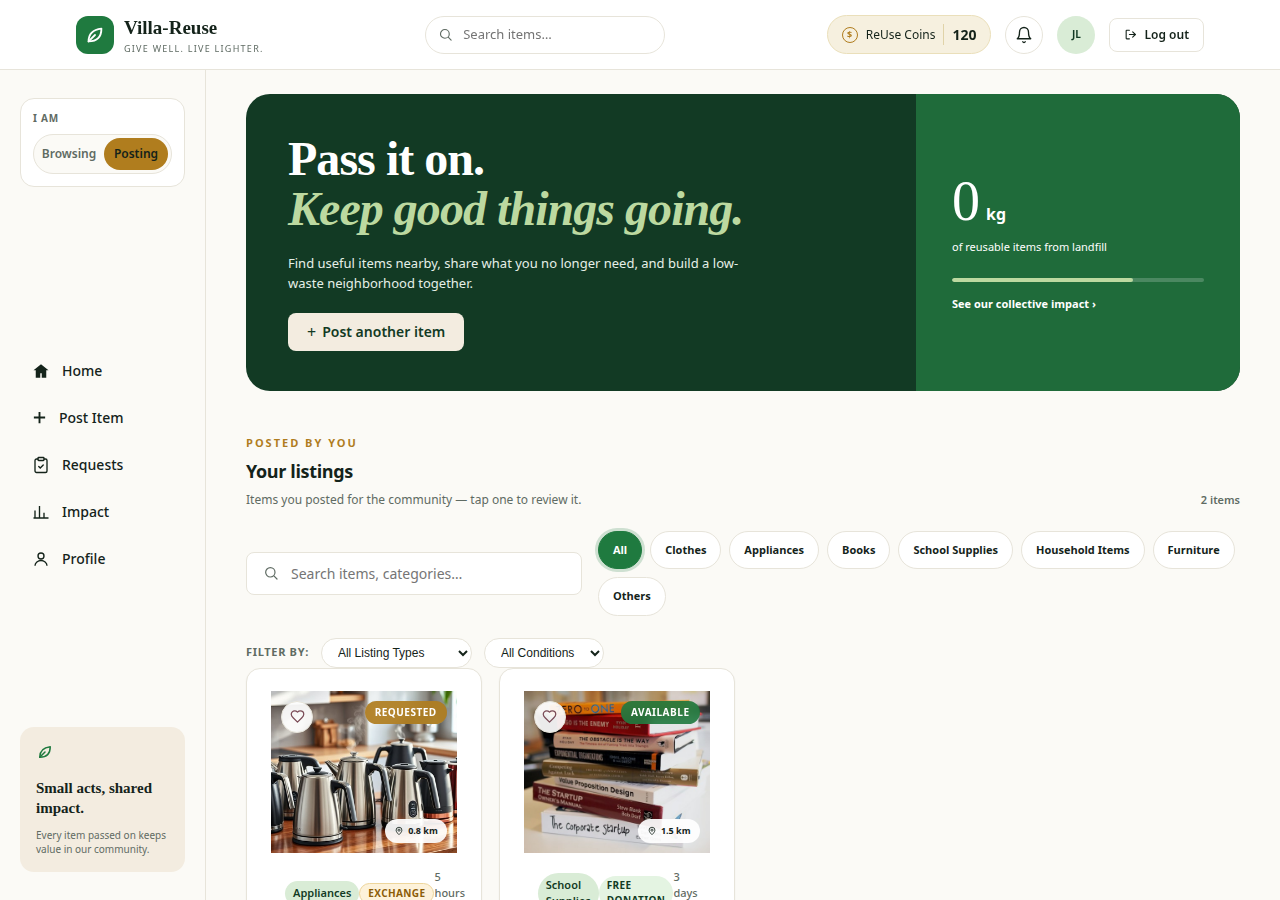
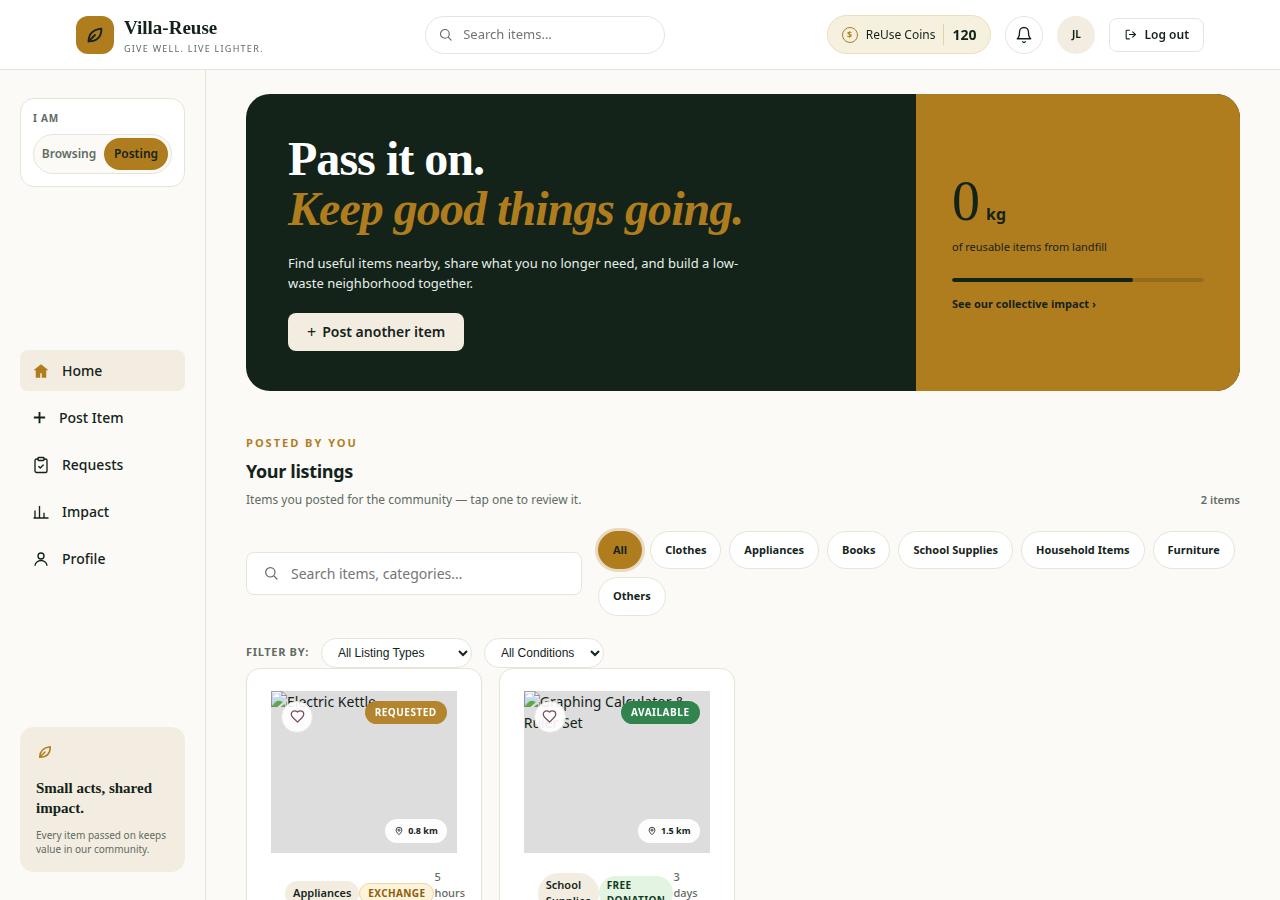
Make posting mode gold throughout the interface

diff --git a/css/components/mode-theme.css b/css/components/mode-theme.css
@@ -1,0 +1,153 @@
+/* Posting mode theme — the whole signed-in interface turns gold.
+ *
+ * The mode switch (src/components/modeSwitch.ts) mirrors the current
+ * mode onto <html data-mode="…">, and it only runs for community
+ * accounts — staff pages and the sign-in pages never get the
+ * attribute, so they always keep the standard green theme. Browsing
+ * needs no overrides at all: it is the palette as designed.
+ *
+ * Instead of recolouring rule by rule, the posting block below
+ * re-points the palette's accent variables at the gold end of the
+ * same palette, so every button, icon, link, badge, focus ring and
+ * tint that was green follows at once:
+ *
+ *   --c-green-600 / --c-green-700  the accent itself      → gold
+ *   --c-lime                       accent on dark panels → gold
+ *   --c-green-100                  light accent tint     → cream
+ *   --c-green-900                  dark accent ink/panel → the
+ *                                  palette's near-black text colour,
+ *                                  so headings stay readable and the
+ *                                  dark panels stay dark behind
+ *                                  their new gold accents.
+ *
+ * No new colours are introduced; every value below already exists
+ * in css/base/variables.css (the rgba() rings are the same gold and
+ * text colours at low opacity, the way the green rings were). */
+
+:root[data-mode="posting"] {
+  --c-green-600: var(--c-gold);
+  --c-green-700: var(--c-gold);
+  --c-green-100: var(--c-cream);
+  --c-green-900: var(--c-text);
+  --c-lime: var(--c-gold);
+}
+
+/* Gold fills pair with dark text — the same pairing the switch's
+   gold Posting pill already uses (white on this gold is ~3.6:1,
+   the dark text colour is ~4.5:1). */
+:root[data-mode="posting"] .chip--active,
+:root[data-mode="posting"] .btn--solid,
+:root[data-mode="posting"] .icon-btn__badge {
+  color: var(--c-text);
+}
+
+:root[data-mode="posting"] .btn--solid:hover {
+  background: var(--c-text);
+  color: #fff;
+}
+
+:root[data-mode="posting"] .header__logo svg {
+  stroke: var(--c-text);
+}
+
+/* Focus rings keep a soft tint of the current accent. */
+:root[data-mode="posting"] .header__search:focus-within,
+:root[data-mode="posting"] .search:focus-within {
+  box-shadow: 0 0 0 3px rgba(176, 125, 30, 0.18);
+}
+
+:root[data-mode="posting"] .field__input:focus {
+  box-shadow: 0 0 0 3px rgba(176, 125, 30, 0.15);
+}
+
+:root[data-mode="posting"] .chip--active {
+  box-shadow: 0 0 0 3px rgba(176, 125, 30, 0.25);
+}
+
+/* Panels that sit on the accent colour itself: in posting mode the
+   hero's stats column and the primary stat card are gold, so their
+   contents switch to the dark pairing as well. */
+:root[data-mode="posting"] .hero__stats {
+  color: var(--c-text);
+}
+
+:root[data-mode="posting"] .hero__stats .progress {
+  background: rgba(20, 35, 26, 0.18);
+}
+
+:root[data-mode="posting"] .hero__stats .progress__bar {
+  background: var(--c-text);
+}
+
+:root[data-mode="posting"] .stat-card--primary {
+  color: var(--c-text);
+}
+
+:root[data-mode="posting"] .stat-card--primary .stat-card__label,
+:root[data-mode="posting"] .stat-card--primary .stat-card__note {
+  color: var(--c-text);
+}
+
+:root[data-mode="posting"] .stat-card--primary .stat-card__track {
+  background: rgba(20, 35, 26, 0.18);
+}
+
+:root[data-mode="posting"] .stat-card--primary .stat-card__fill {
+  background: var(--c-text);
+}
+
+/* Progress track on the plain stat cards (the fill already follows
+   the accent variable). */
+:root[data-mode="posting"] .stat-card__track {
+  background: rgba(176, 125, 30, 0.25);
+}
+
+/* Leaf and tree icons are inline SVGs with the green written into
+   the markup; restamp them with the accent colour. On the gold
+   primary stat card the trees take the dark pairing instead. */
+:root[data-mode="posting"] .sidebar-card__icon,
+:root[data-mode="posting"] .coin-suggestion__icon svg,
+:root[data-mode="posting"] .insight-banner__icon svg,
+:root[data-mode="posting"] .trees-row svg {
+  stroke: var(--c-gold);
+}
+
+:root[data-mode="posting"] .stat-card--primary .trees-row svg {
+  stroke: var(--c-text);
+}
+
+/* Light tints that were written as fixed colours rather than the
+   tint variable get their warm equivalent. */
+:root[data-mode="posting"] .upload-zone:hover,
+:root[data-mode="posting"] .notif-item--unread,
+:root[data-mode="posting"] .contributor--self,
+:root[data-mode="posting"] .header-logout:hover,
+:root[data-mode="posting"] .activity-row:hover {
+  background: var(--c-cream);
+}
+
+/* The upload dropzone's resting state has its own pale tint and
+   dashed border written in fixed colours; both follow the mode. */
+:root[data-mode="posting"] .upload-zone {
+  background: var(--c-cream);
+  border-color: var(--c-gold);
+}
+
+:root[data-mode="posting"] .profile-card__avatar {
+  box-shadow: 0 0 0 8px var(--c-cream);
+}
+
+:root[data-mode="posting"] .insight-banner__text {
+  color: var(--c-cream);
+}
+
+/* The current page in the sidebar gets the mode's tint, with a gold
+   icon; the label keeps the regular text colour so it stays easy
+   to read on the light tint. */
+:root[data-mode="posting"] .sidebar__link--active {
+  background: var(--c-cream);
+}
+
+:root[data-mode="posting"] .sidebar__link--active svg {
+  color: var(--c-gold);
+}

diff --git a/src/components/modeSwitch.ts b/src/components/modeSwitch.ts
@@ -7,6 +7,13 @@
 //
 //   * Browsing → the Home feed of community items.
 //   * Posting  → the Post Item page (and, on Home, your own listings).
+//
+// The mode is also mirrored onto <html data-mode="…"> so the whole
+// signed-in interface can follow the mode's colour (see
+// css/components/mode-theme.css): green for Browsing, gold for
+// Posting. This module only runs for community accounts, so staff
+// pages and the sign-in pages never get the attribute and keep the
+// standard green theme.
 
 export type BrowseMode = "browsing" | "posting";
 
@@ -28,7 +35,12 @@ export function setMode(mode: BrowseMode): void {
   }
 }
 
+function reflectMode(mode: BrowseMode): void {
+  document.documentElement.dataset.mode = mode;
+}
+
 export function mountModeSwitch(): void {
+  reflectMode(getMode());
   const nav = document.querySelector<HTMLElement>(".sidebar__nav");
   if (!nav || nav.querySelector(".mode-switch")) return;
 
@@ -46,6 +58,7 @@ export function mountModeSwitch(): void {
 
   const sync = (): void => {
     const current = getMode();
+    reflectMode(current);
     wrap.querySelectorAll<HTMLButtonElement>(".mode-switch__btn").forEach((btn) => {
       const active = btn.dataset.mode === current;
       btn.classList.toggle("mode-switch__btn--active", active);

diff --git a/css/main.css b/css/main.css
@@ -49,4 +49,7 @@
 @import "components/listings.css";
 @import "layout/responsive.css";
 
+/* /posting mode theme (gold throughout for community accounts) */
+@import "components/mode-theme.css";
+
 

diff --git a/CHANGELOG.md b/CHANGELOG.md
@@ -383,6 +383,36 @@ page).
   looking at the community's items, gold means you are looking
   at your own postings.
 
+### Posting gold throughout (improved, Round 3)
+- **What changed:** The colour code now covers the whole
+  signed-in interface, not just the switch. In Posting mode the
+  logo tile, notification badge, buttons, filter chips, links,
+  sidebar icons and current-page highlight, the hero panel and
+  its stats column, form focus rings, the photo dropzone, the
+  Impact stat cards and the profile accents all turn gold;
+  Browsing keeps the theme green everywhere. The mode switch
+  stamps the current mode on the page itself
+  (`<html data-mode="…">`), and a new stylesheet
+  (`css/components/mode-theme.css`) re-points the palette's
+  accent colours at the gold end of the same palette — the
+  accent green becomes the theme gold, the light green tint
+  becomes the theme cream, and the dark green becomes the
+  palette's near-black text colour so headings and the dark
+  panels stay readable behind their gold accents. Where a gold
+  fill carries text, it takes the dark text colour, the same
+  pairing the switch's gold pill already used. Still no new
+  colours: every value comes from the existing palette. Staff
+  pages and the sign-in pages have no mode switch, so they never
+  get the stamp and are unchanged. The one thing that keeps its
+  own colours in both modes is the item status system —
+  Available, Requested, Reserved, Completed — because those
+  badges are a code of their own (Requested is already gold, so
+  turning Available gold too would make two statuses look the
+  same).
+- **Why:** Colouring only the switch left the rest of the page
+  green, so Posting mode did not feel different at a glance —
+  the mode colour has to be the page's colour, not one button's.
+
 ### Search in the top bar (added, Round 3)
 - **What was added:** A search field in the signed-in top bar. On
   Home it is wired to the feed's existing search filter (typing in
